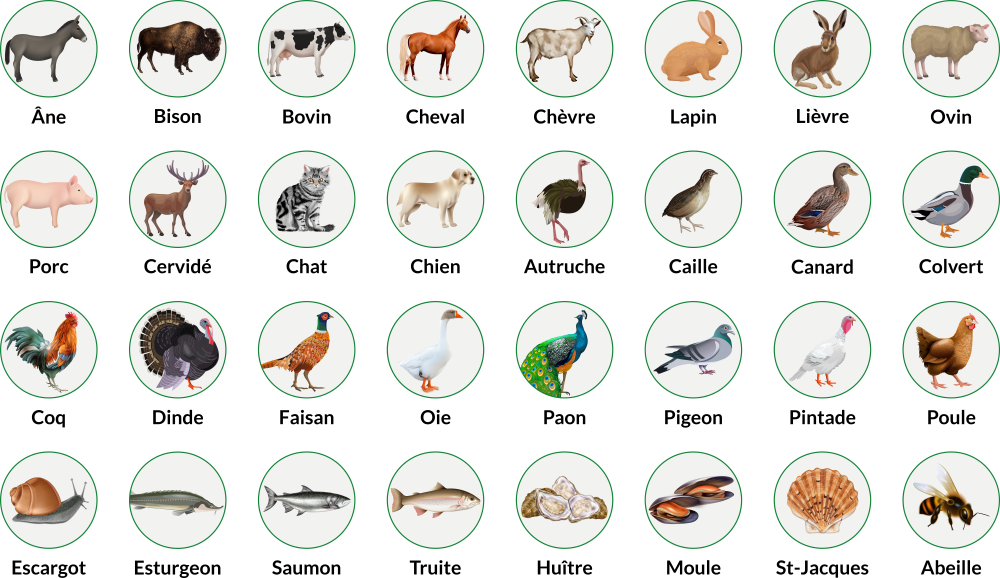
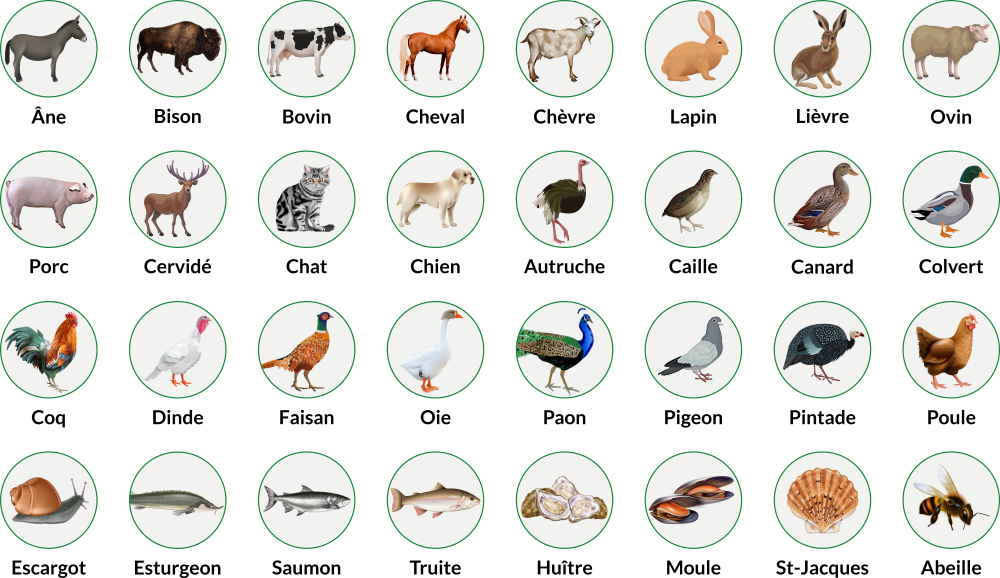
Màj visuels + conditionnements

diff --git a/content/fr/chapitre8.html b/content/fr/chapitre8.html
@@ -1393,6 +1393,16 @@
 	  <h6>Guide de prise en main • Stocks, tiers et RH • Unités et conditionnements</h6>
       <a class="slice-process" id="conditionnement"></a>
       <h2 class="texte aerateur">b - Unités et conditionnements</h2>
+	  <div class="warn-fond aerateur-bas">
+         <div class="floating-box-warn">
+            <img src="../images/commun/attention.svg" width="100" alt="Attention"/>
+         </div>
+         <div class="info-txt">
+            <span class="titre-advice">Bientôt disponible<br /></span>
+            <p class="texte-advice">La gestion des unités et des conditionnements sont deux nouvelles fonctionnalités qui seront très prochainement disponibles.</p>
+         </div>
+      </div>
+	  <!--
 	  <h3 align="center" class="texte aerateur procedure">1 – Procédure pour créer une unité</h3>
       <p class="texte">
          Le processus suivant vous guide pour paramétrer une unité anglo-saxonne avec son équivalence dans le système métrique, afin de réaliser des ventes avec un conditionnement personnalisé pris en compte au niveau des stocks.
@@ -1453,7 +1463,8 @@
             <img src="../images/chapitre8/unite5.png" class="contour-img" alt="Vente avec conditionnement" data-action="zoom" />
          </p>
       </div>
-	  <h3 align="center" class="texte aerateur procedure">2 – Procédure pour créer un conditionnement</h3>
+      -->
+	  <h3 align="center" class="texte aerateur procedure">1 – Procédure pour créer un conditionnement</h3>
 	  <div class="config margin-config config-x4 aerateur">
          <p>
             <img src="../images/commun/parcours.svg" height="45" alt="Icône parcours"/>

diff --git a/content/fr/demarrage.html b/content/fr/demarrage.html
@@ -18,7 +18,7 @@
 	  <h1 align="center" class="texte majuscule aerateur-haut aerateur-bas">Guide de prise en main</h1>
       <p align="center"><img src="../images/accueil/icone-doc.png" alt="Documentation Ekylibre" height="100px"></p>
       <p class="texte" align="center"><img src="../images/accueil/logos-eky.png" alt="Logos Ekylibre" style="width: 500px"></p>
-      <p class="texte aerateur-haut">Ce guide de prise en main a pour objectif d'aider le nouvel utilisateur à configurer rapidement et correctement les applications développées par Ekylibre pour la gestion des exploitations agricoles et viticoles. Cette documentation en ligne a été mise à jour le 12 octobre 2021.</p>
+      <p class="texte aerateur-haut">Ce guide de prise en main a pour objectif d'aider le nouvel utilisateur à configurer rapidement et correctement les applications développées par Ekylibre pour la gestion des exploitations agricoles et viticoles. Cette documentation en ligne a été mise à jour le 13 octobre 2021.</p>
       <div class="info-fond aerateur-haut aerateur-bas">
          <div class="floating-box-info">
             <img src="../images/commun/info.svg" width="100" alt="Info"/>

diff --git a/content/fr/chapitre9.html b/content/fr/chapitre9.html
@@ -428,7 +428,7 @@
       <h2 class="texte aerateur">a - Activités agricoles</h2>
       <p class ="texte">Toutes les activités ne sont pas encore parfaitement gérées dans l'application, notamment les productions animales et de nouvelles fonctionnalités seront progressivement ajoutées pour répondre aux besoins des éleveurs.</p>
 	  <span class="titre-advice texte">Productions animales<br /></span>
-      <p class="texte aerateur-bas">Liste non exhaustive&nbsp;:</p>
+      <p class="texte aerateur-bas">Aperçu des actvités disponibles &#40;liste non exhaustive&#41;&nbsp;:</p>
       <div class="affichage-mobile">
          <p align="center">
             <img src="../images/commun/scroll.svg" alt="Scroll" height="40" class="">
